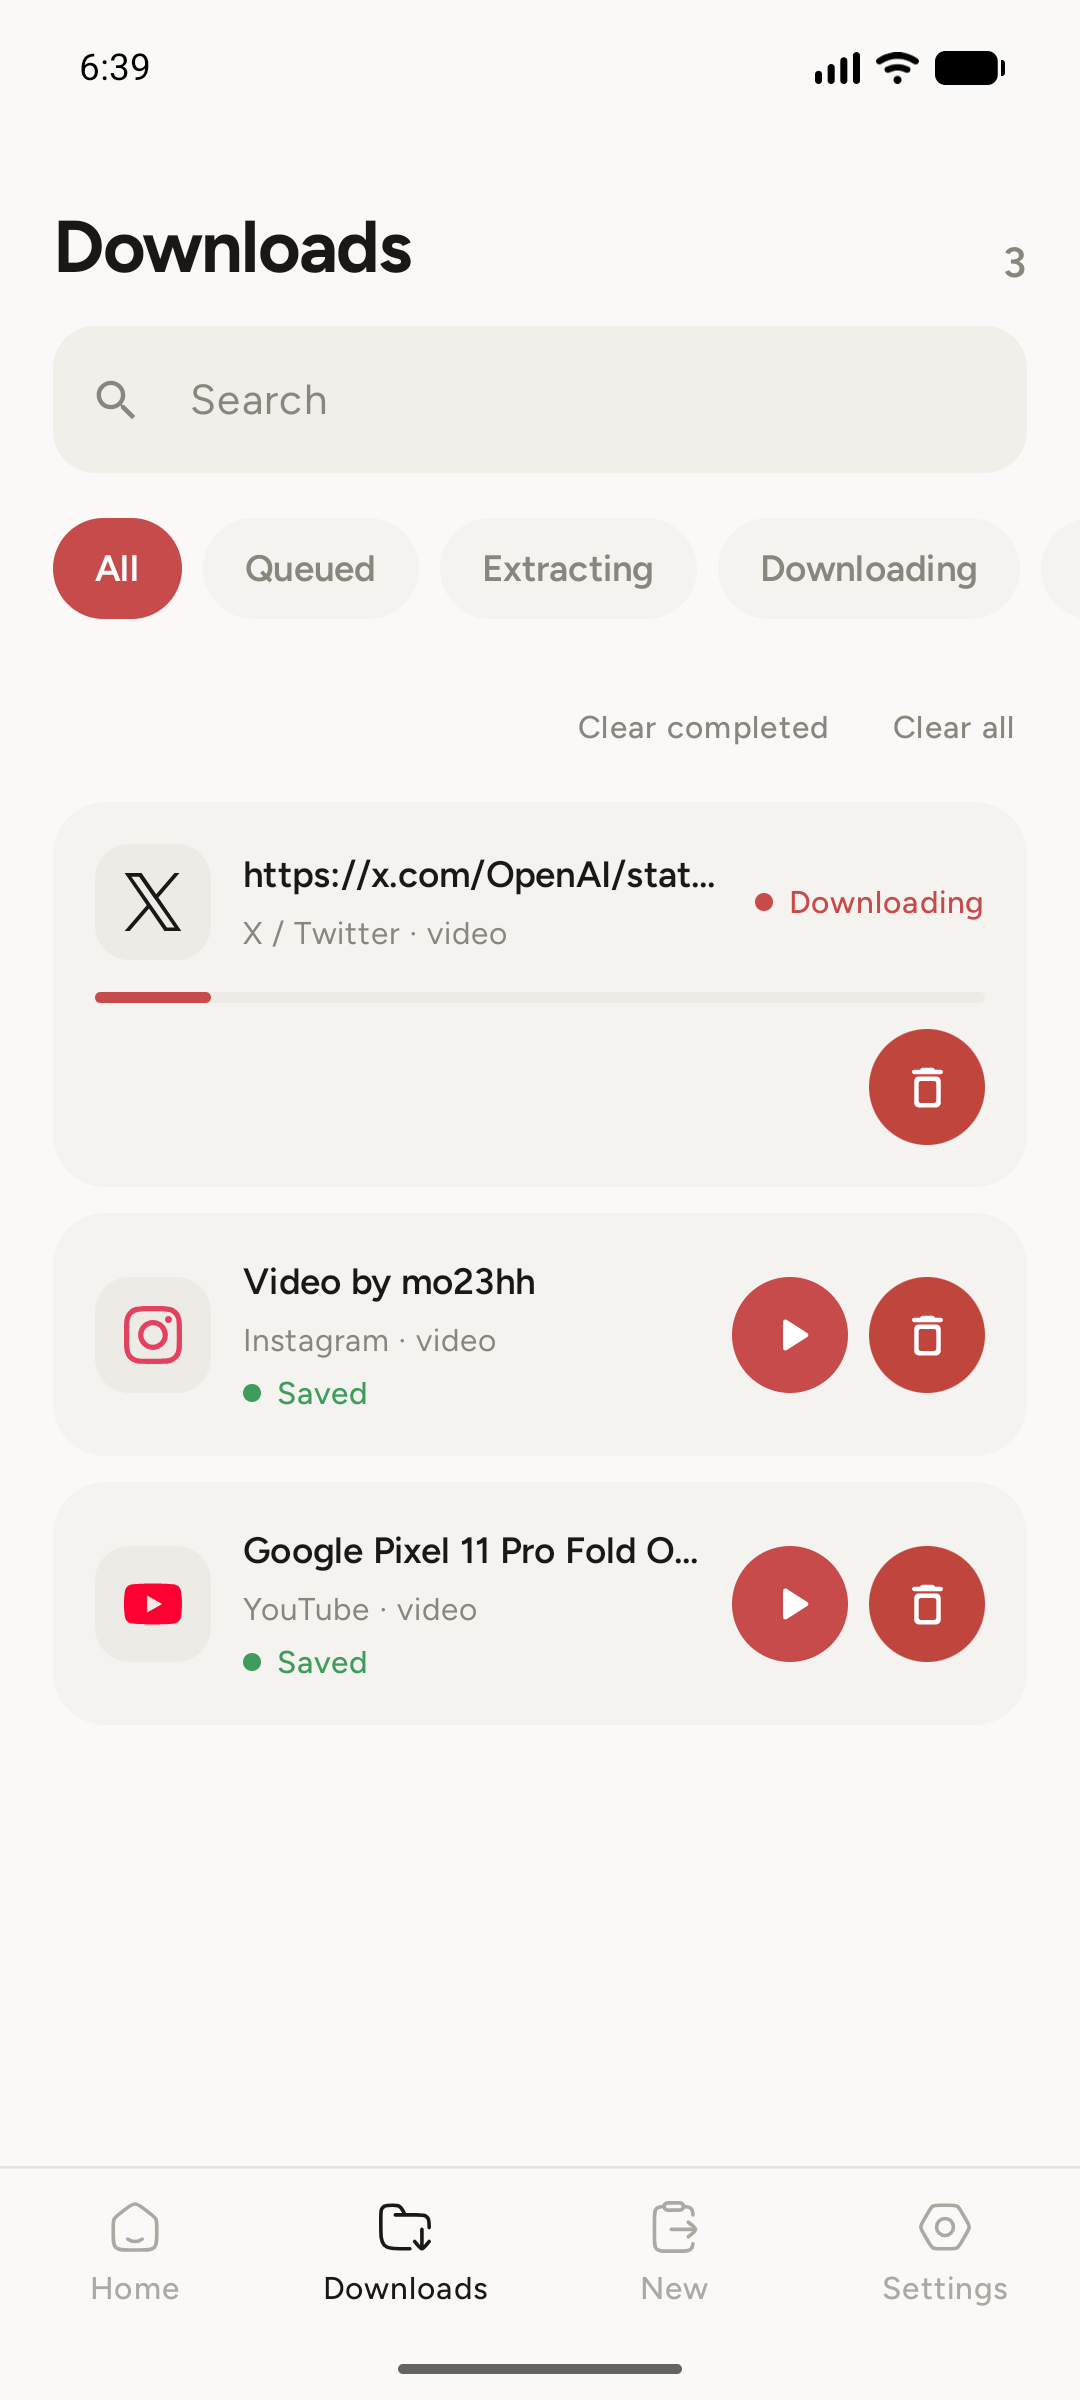
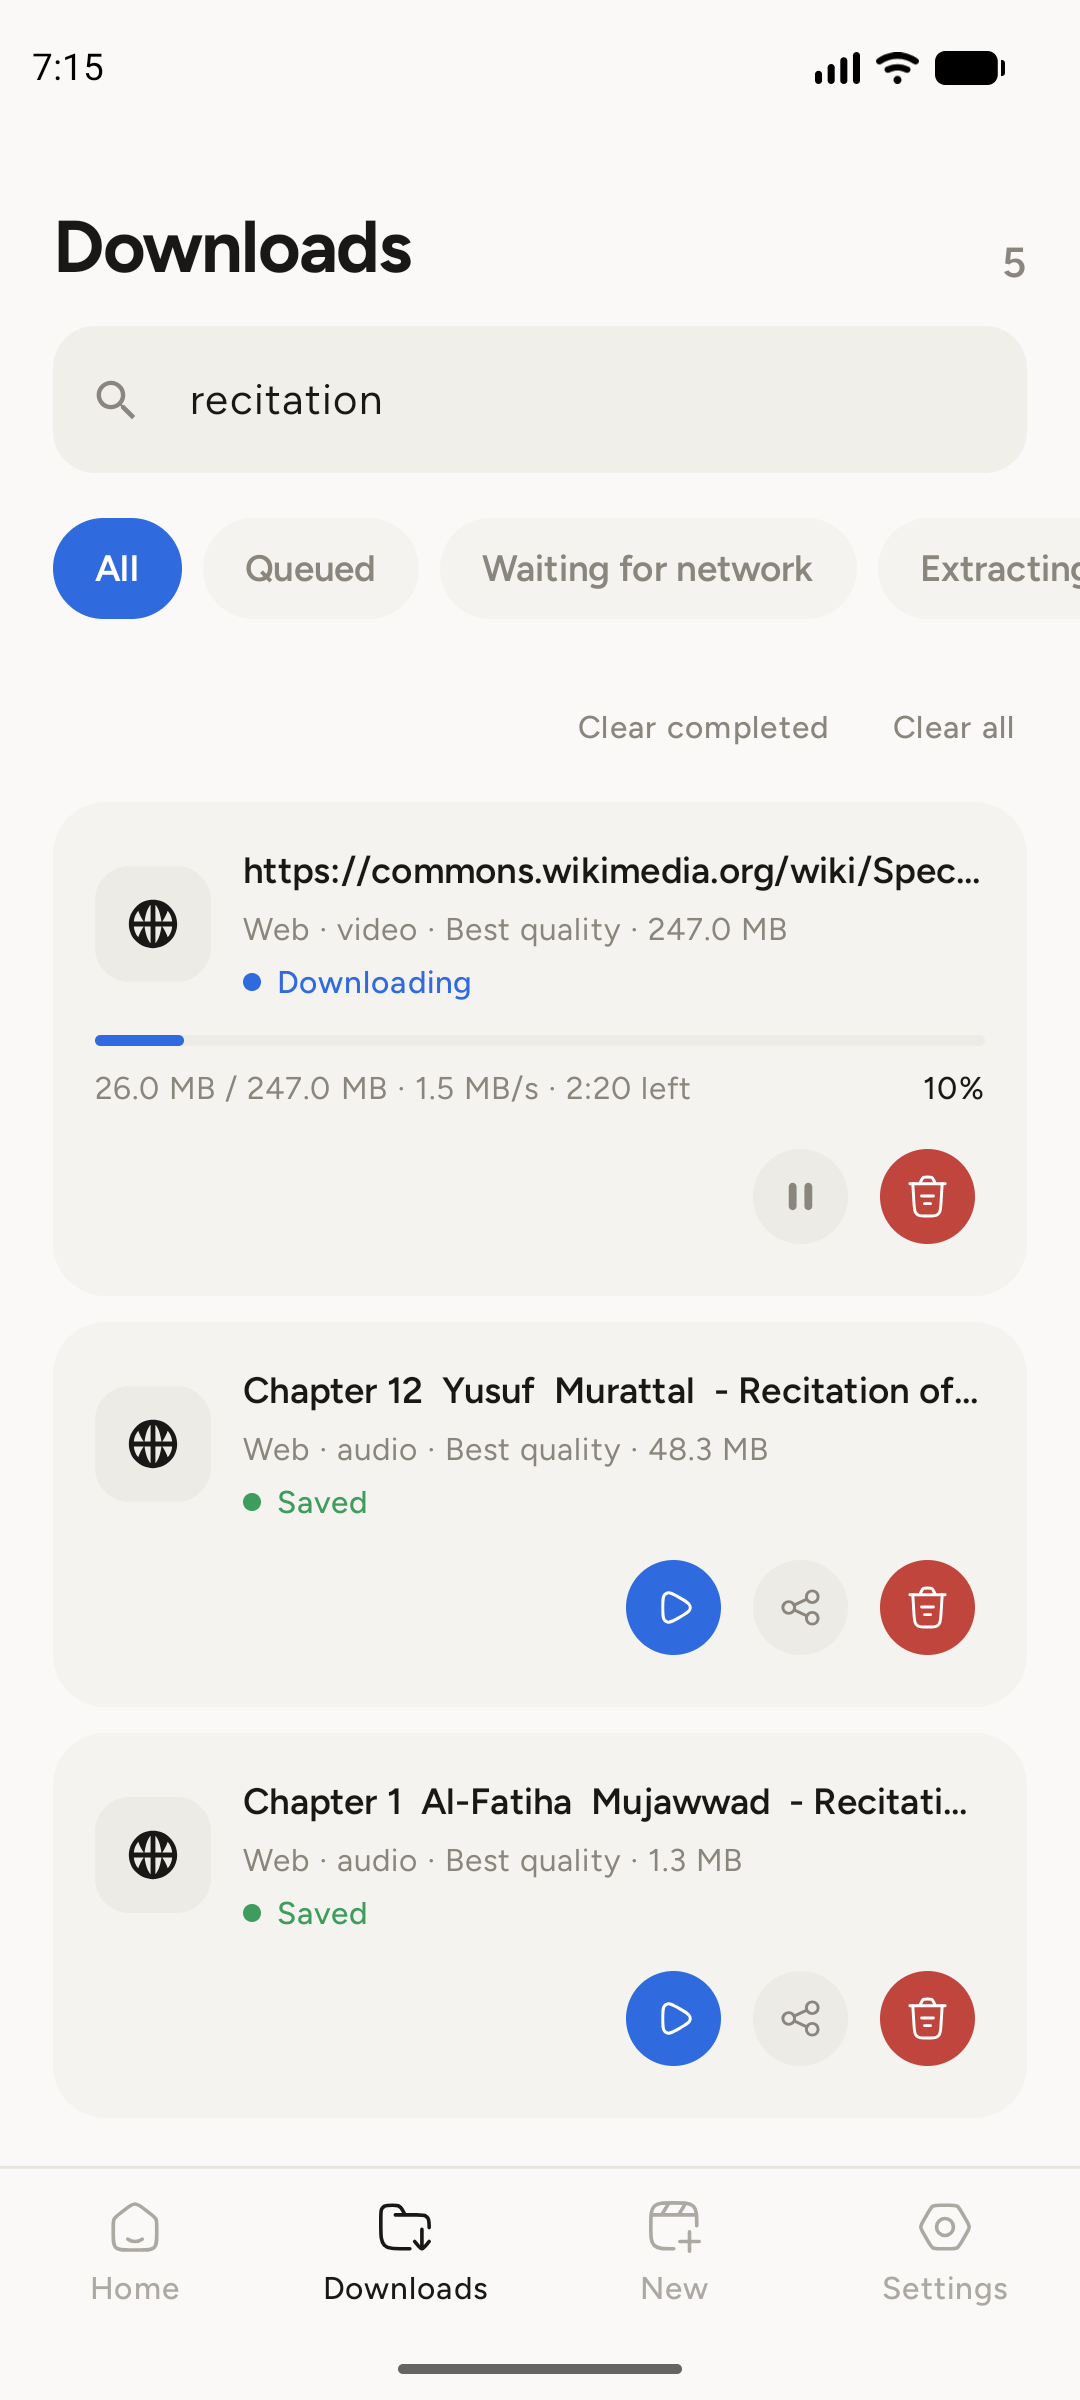
feat(docs): refresh README screenshots and captions
Updates all README gallery captions to match the new Quran media-focused UI copy and replaces the referenced screenshots with the latest visuals across onboarding, home, downloads, new download, player, settings, and share flow.

diff --git a/README.md b/README.md
@@ -23,29 +23,29 @@ No ads. No telemetry. No tracking. MIT licensed.
     <td align="center" width="33%">
       <img src="docs/screenshots/onboarding.png" alt="ClipSave onboarding screen" width="260"><br>
       <strong>Onboarding</strong><br>
-      <sub>A clear introduction to the download flow.</sub>
+      <sub>First-run guidance, download steps, and responsible-use notice.</sub>
     </td>
     <td align="center" width="33%">
       <img src="docs/screenshots/home.png" alt="ClipSave home screen" width="260"><br>
       <strong>Home</strong><br>
-      <sub>At-a-glance activity and recent downloads.</sub>
+      <sub>At-a-glance KPIs and two saved Quran media items.</sub>
     </td>
     <td align="center" width="33%">
       <img src="docs/screenshots/downloads.png" alt="ClipSave downloads manager" width="260"><br>
       <strong>Downloads</strong><br>
-      <sub>Search, filter, retry, play, and manage files.</sub>
+      <sub>Search Quran recitations while tracking live speed, progress, and ETA.</sub>
     </td>
   </tr>
   <tr>
     <td align="center" width="33%">
       <img src="docs/screenshots/new-download.png" alt="ClipSave new download screen" width="260"><br>
       <strong>New download</strong><br>
-      <sub>Paste a link and choose video or audio quality.</sub>
+      <sub>Review a Quran media link and choose video or audio quality.</sub>
     </td>
     <td align="center" width="33%">
       <img src="docs/screenshots/video-player.png" alt="ClipSave in-app video player" width="260"><br>
       <strong>Video player</strong><br>
-      <sub>Clean playback with seeking and skip controls.</sub>
+      <sub>Play saved media in-app with seeking and skip controls.</sub>
     </td>
     <td align="center" width="33%">
       <img src="docs/screenshots/settings.png" alt="ClipSave appearance and app settings" width="260"><br>
@@ -58,7 +58,7 @@ No ads. No telemetry. No tracking. MIT licensed.
 <p align="center">
   <img src="docs/screenshots/share-dialog.png" alt="Share a link directly to ClipSave" width="280"><br>
   <strong>Share from any app</strong><br>
-  <sub>Send a link to ClipSave and choose video or audio without retyping it.</sub>
+  <sub>Send a Quran media link to ClipSave and choose video or audio without retyping it.</sub>
 </p>
 
 ---
